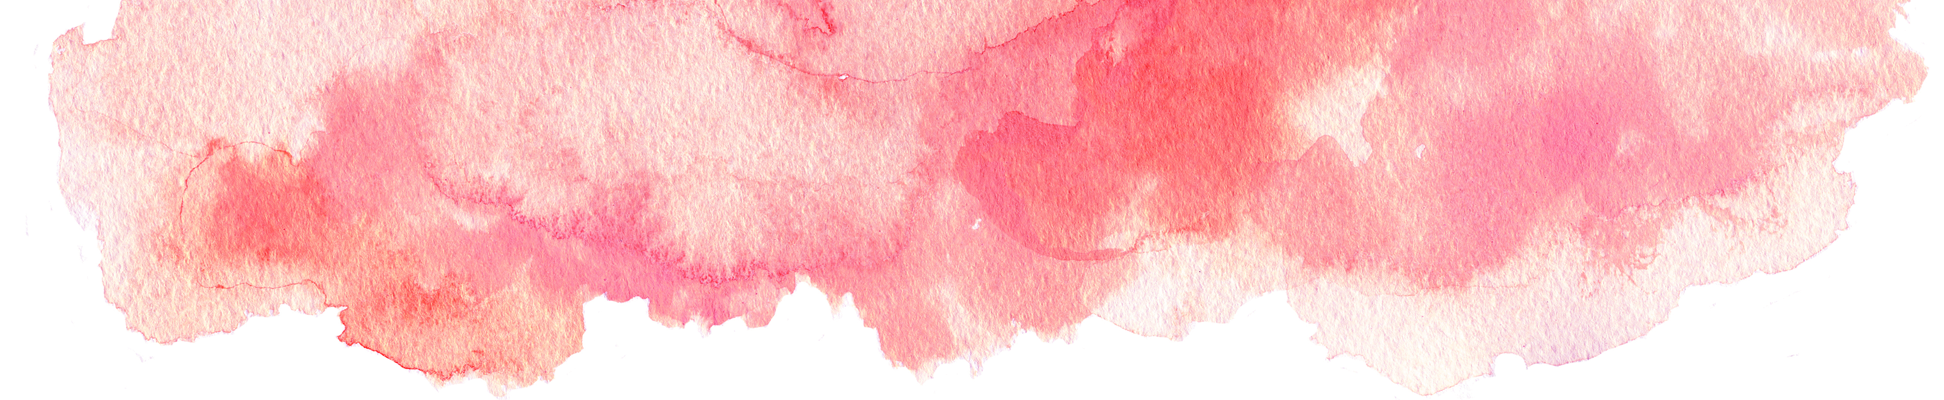
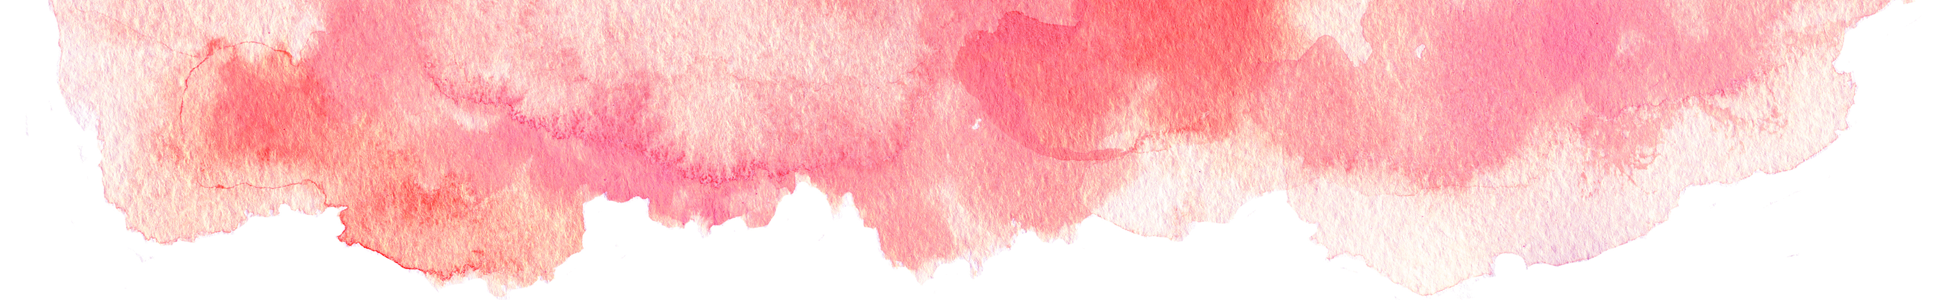
wip

diff --git a/js/details/detailsView.html b/js/details/detailsView.html
@@ -1,5 +1,5 @@
 <div class="row">
-    <div class="col-md-2">
+    <div class="col-md-2 article-avatar">
         
         <img src="css/Images/thmb-default.jpg" alt="thmb-default">
         
@@ -11,26 +11,48 @@
          <article class="media">
             <h1 class="media-heading">{{ post.Title }}</h1>
 
-            <div ng-bind-html="post.Content | sanitize">
+            <div class="article-content" ng-bind-html="post.Content | sanitize">
             </div>
-            <ul>
-            <li ng-repeat="comment in post.Comments track by $index">
-                {{ comment.Comment }} by {{ comment.Author }}
-            </li>   
-        </ul>
-        <div>
-            Author: <br />
-            <input type="text" ng-model="newCommentAuthor"/> <br />
-            Comment: <br />
-            <textarea ng-model="newCommentPost"/><br />
-            <input type="button" value="add comment" ng-click="addComment()" />
-        </div>
 
-            <ul class="post-tags list-horizontal" style="display:none;">
-                <li ng-repeat="tag in post.Tags">
-                    {{ tag }}
-                </li>
-             </ul>
+            <section class="comments-list">
+              <h2>Comments:</h2>
+
+                <article ng-repeat="comment in post.Comments track by $index">
+                    <footer class="text-muted">
+                      &mdash; by {{ comment.Author }}, on {{ comment.Date | date:"MM/dd/yyyy 'at' h:mma" }}
+                    </footer>
+                    <p>{{ comment.Comment }} </p>
+                </article>   
+            </section>
+
+            <section class="comments-form">
+              <h2>Leave a comment:</h2>
+                <div class="row">
+                  <div class="col-xs-12 col-md-8">
+
+                    <div class="form-group">
+                       <label for="author">Author</label>
+                       <input type="text" id="author" ng-model="newCommentAuthor" class="form-control"/>
+                    </div>
+
+                    <div class="form-group">
+                       <label for="author">Comment</label>
+                       <textarea ng-model="newCommentPost"  class="form-control"/>
+                    </div>
+
+                  </div>
+                </div>
+
+                <button type="button" class="btn btn-default" ng-click="addComment()" >Add comment</button>
+            </section>
+
+            <footer>
+              <ul class="post-tags list-horizontal" style="display:none;">
+                  <li ng-repeat="tag in post.Tags">
+                      {{ tag }}
+                  </li>
+               </ul>
+            </footer>
 
          </article>
 

diff --git a/css/style.css b/css/style.css
@@ -14,13 +14,8 @@ body
 }
 
 h1, .h1 {
-	font-size: 44px;
-}
 
-h2, .h2 {
-	font-size: 16px;
-	margin-top: 0;
-	margin-bottom: 20px;
+	font-size: 44px;
 }
 article {
 	margin-bottom: 40px;
@@ -36,17 +31,24 @@ a:hover, a:focus, a:active {
 p {
 	font-family: Arial, sans-serif;
 }
+
+/*Bootstrap*/
+
+.btn.btn-default{
+	background-color: #efefef;
+}
+
 /*Header*/
 
 .banner {
-	min-height: 280px;
-	background: transparent url("Images/banner.png") no-repeat center -100px;
-	background-size: 100%;
+	background: transparent url("Images/banner.png") no-repeat center;
+	background-size: cover;
+	padding-bottom: 12%;
 }
 .banner-small {
-	background: transparent url("Images/banner-small.png") no-repeat center top;
-	min-height: 100px;
-	background-size: 100%;
+	background: transparent url("Images/banner-small.png") no-repeat center;
+	background-size: cover;
+	padding-bottom: 7%;
 }
 .banner-small h1, .banner-small nav {
 	display: none;
@@ -101,6 +103,8 @@ section {
  color: #ff3e64;
 }
 
+/*Content*/
+
 /*Profile*/
 .profile-pic {
 	text-align:center;
@@ -120,6 +124,50 @@ section {
 	color: #ff3e64;
 }
 
+/*Comments*/
+
+section.comments-list,
+section.comments-form {
+	margin-top: 60px;
+	margin-bottom: 0;
+}
+
+.comments-list h2,
+.comments-form h2 {
+	font-size: 24px;
+	margin-bottom:30px;
+}
+
+.comments-list article {
+	margin-bottom: 30px;
+}
+.comments-form textarea {
+	min-height:150px;
+}
+
+/*Quote*/
+.quote h2 {
+	font-size: 18px;
+}
+blockquote {
+	border-left: 0;
+	padding: 0;
+	font-size: 16px;
+}
+
+/*About me page*/
+
+.about img {
+	border-radius: 50%;
+}
+
+.about h1 {
+	margin-top: 20px;
+	margin-bottom: 0;
+}
+.about-email{
+	color:#ff3e64;
+}
 /*  Utility styles*/
 
 .u-mt0 {
@@ -169,3 +217,21 @@ margin-top: 15px; }
 
 .u-mb60 {
   margin-bottom: 60px; }
+
+/*Responsive design*/
+
+@media (max-width: 970px) {
+
+	section {
+		margin: 40px 0;
+	}
+
+	.main {
+		padding: 30px;
+	}
+
+	.article-avatar {
+		display: none;
+	}
+
+}

diff --git a/js/home/homeView.html b/js/home/homeView.html
@@ -2,7 +2,7 @@
 	<div class="col-md-9">
 		<article class="media" ng-repeat="bp in blogPosts">
 
-		    <div class="media-left">
+		    <div class="media-left article-avatar">
 				<a ui-sref="details({url : bp.Url})">
 					<img class="media-object" src="css/Images/thmb-default.jpg" alt="thmb-default">
 				</a>
@@ -16,6 +16,6 @@
 		    
 		</article>
 	</div>
-	<div class="col-md-3"><quotes /></div>
+	<div class="col-md-3"><aside class="quote" quotes ></aside></div>
 </div>
 

diff --git a/js/details/detailsApp.js b/js/details/detailsApp.js
@@ -11,7 +11,7 @@
         );
 
         $scope.addComment = function(){
-            var newComment = {'Author': $scope.newCommentAuthor,'Comment' : $scope.newCommentPost};
+            var newComment = {'Author': $scope.newCommentAuthor,'Comment' : $scope.newCommentPost, 'Date': new Date()} ;
 
             EverliveService.addNewComment($scope.post.Id, newComment).then(
                 function(result) {

diff --git a/app.js b/app.js
@@ -24,6 +24,11 @@ config(['$stateProvider', '$urlRouterProvider', function($stateProvider, $urlRou
       url: '/details/:url',
       templateUrl: "js/details/detailsView.html",
       controller: 'detailsController'
+    })
+    .state('about', {
+      url: '/about-me',
+      templateUrl: 'js/aboutme/aboutMeView.html',
+      controller: 'aboutMeController'
     });
 
 }]);

diff --git a/js/aboutme/aboutMeView.html b/js/aboutme/aboutMeView.html
@@ -1,4 +1,7 @@
-
-<ul class="left-col width-65">
-    my name is {{ name }}
-</ul>
+<div class="text-center about">
+	<img src="../../css/Images/jeina.jpg" alt="avatar">
+	<h1>{{ name }}</h1>
+	<p>jen.peleva@gmail.com</p>
+	<p class="u-mb20">my name is {{ name }}</p>
+</div>
+    

diff --git a/js/components/quotes/quotes.js b/js/components/quotes/quotes.js
@@ -8,7 +8,7 @@
     
     quotesApp.directive('quotes', function() {
         return {
-            restrict: 'E',
+            restrict: 'A',
             templateUrl: '/js/components/quotes/quotesView.html',
             controller: 'quotesController'
         };

diff --git a/js/aboutme/aboutMeApp.js b/js/aboutme/aboutMeApp.js
@@ -11,6 +11,6 @@
     ]);
 
     aboutMeApp.controller('aboutMeController', function($scope, $routeParams, EverliveService) {
-        $scope.name = 'JEINA!';
+        $scope.name = 'Jen Peleva';
     });
 })();

diff --git a/js/components/quotes/quotesView.html b/js/components/quotes/quotesView.html
@@ -1,1 +1,5 @@
-quote of the day: {{ quote }}
+
+<h2>Quote of the day: </h2>
+<blockquote class="text-muted">
+	<em>{{ quote }}</em>
+</blockquote>
